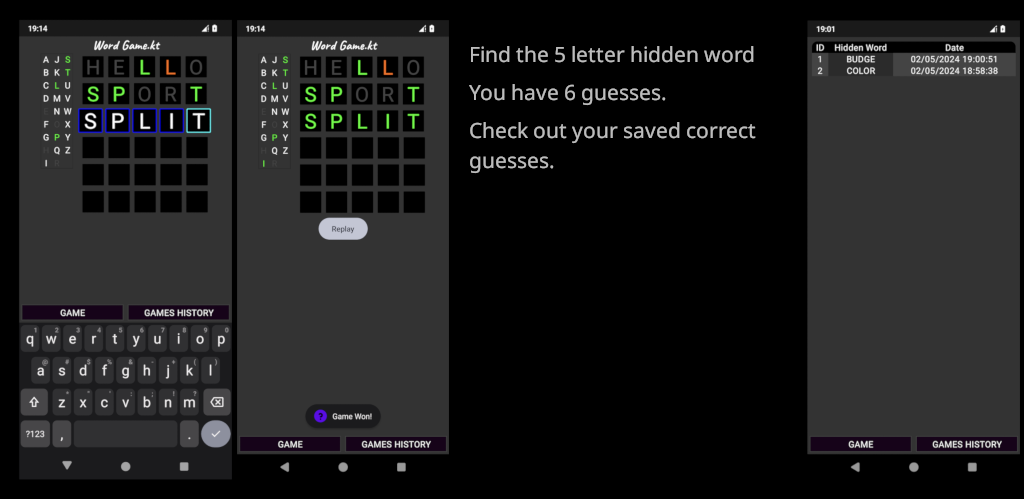
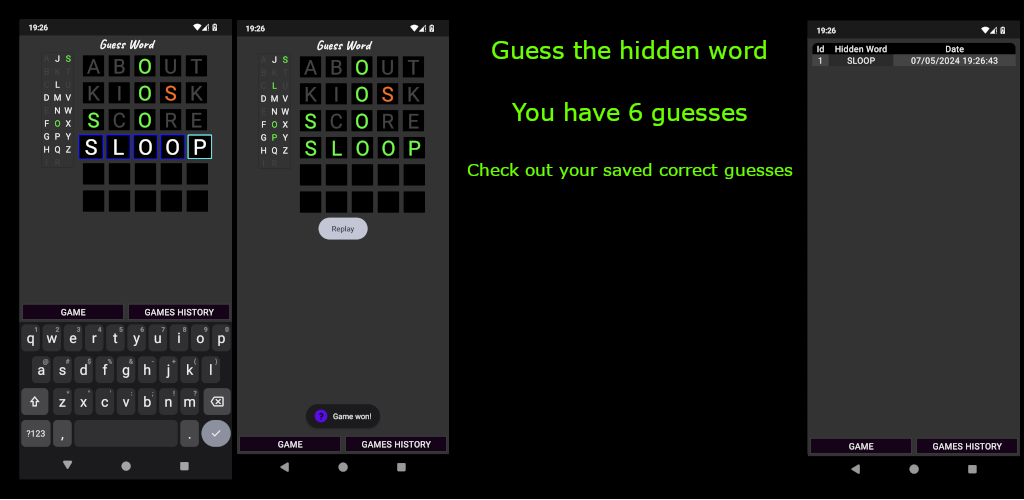
project rename, small adjustments

diff --git a/app/src/main/java/com/waquwex/wordgame_kt/screens/GamesHistory.kt b/app/src/main/java/com/waquwex/wordgame_kt/screens/GamesHistory.kt
@@ -2,14 +2,20 @@ package com.waquwex.wordgame_kt.screens
 
 import android.content.Context
 import androidx.compose.foundation.layout.Column
+import androidx.compose.foundation.layout.fillMaxWidth
 import androidx.compose.foundation.layout.padding
 import androidx.compose.foundation.lazy.LazyColumn
 import androidx.compose.foundation.shape.RoundedCornerShape
+import androidx.compose.material3.Text
 import androidx.compose.runtime.Composable
 import androidx.compose.ui.Modifier
 import androidx.compose.ui.draw.clip
 import androidx.compose.ui.graphics.Color
+import androidx.compose.ui.res.stringResource
+import androidx.compose.ui.text.style.TextAlign
+import androidx.compose.ui.text.style.TextDecoration
 import androidx.compose.ui.unit.dp
+import com.waquwex.wordgame_kt.R
 import com.waquwex.wordgame_kt.WordGameDbHelper
 import com.waquwex.wordgame_kt.composables.gamesHistory.GameHistoryColumnItem
 import java.text.SimpleDateFormat
@@ -24,13 +30,21 @@ fun GamesHistory(context: Context) {
 
     // This will not needed but grouping history by columns per 50 db rows with lazy loading is possible
 
-    Column(modifier = Modifier.padding(8.dp).clip(RoundedCornerShape(10.dp))) {
-        GameHistoryColumnItem(text0 = "ID", text1 = "Hidden Word", text2 = "Date",
+    Column(modifier = Modifier
+        .padding(8.dp)
+        .clip(RoundedCornerShape(10.dp))) {
+        GameHistoryColumnItem(text0 = "Id", text1 = "Hidden Word", text2 = "Date",
             backgroundColor = Color.Black)
-        LazyColumn(modifier = Modifier.weight(1f)) {
-            for (gh in gameHistories) {
-                item {
-                    GameHistoryColumnItem(text0 = gh.id.toString(), text1 = gh.hiddenWord, text2 = dateFormat.format(gh.date))
+        if (gameHistories.isEmpty()) {
+            Text(text = stringResource(R.string.no_history_save), color = Color.White,
+                textAlign = TextAlign.Center,
+                modifier = Modifier.fillMaxWidth().padding(0.dp, 16.dp))
+        } else {
+            LazyColumn(modifier = Modifier.weight(1f)) {
+                for (gh in gameHistories) {
+                    item {
+                        GameHistoryColumnItem(text0 = gh.id.toString(), text1 = gh.hiddenWord, text2 = dateFormat.format(gh.date))
+                    }
                 }
             }
         }

diff --git a/README.md b/README.md
@@ -1,6 +1,6 @@
 # README
 
-## Word Game.kt: Wordle clone with Jetpack Compose
+## Guess Word: Wordle clone with Jetpack Compose
 
 <img src="README_ASSETS/logo.png" alt="image" width="auto" height="70">
 
